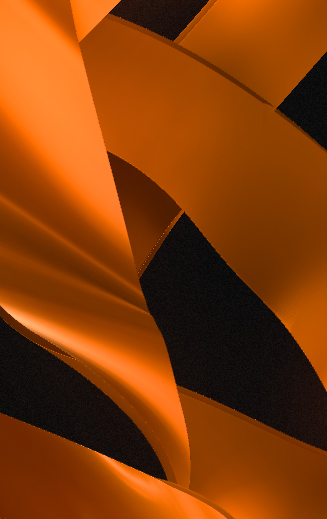
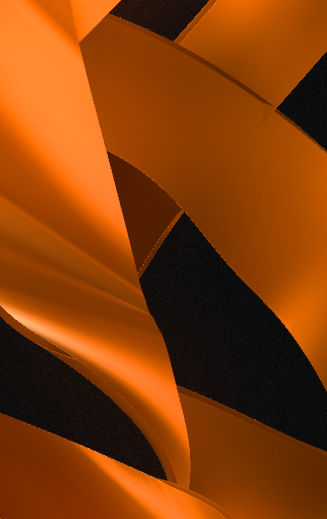
feat(ribbon): soft-box fill light (broad satin gradients, mockup-like contrast)

diff --git a/lib/ribbon/siteSettings.ts b/lib/ribbon/siteSettings.ts
@@ -11,7 +11,7 @@ import type { DeepPartial, RibbonSettings } from "./settings";
  * map / contact catcher are never motion-gated by a threshold (a frozen pose renders them once
  * and keeps them; a moving ribbon renders them every frame). Idle motion comes back in a later stage.
  */
-// 2026-10-09: metallic orange + baked env AO (sweep docs/ribbon/turns/ao4, variant u4); key raised to el 40 / az -50 to remove the tail glare (docs/ribbon/turns/glare, h6); rimNormalMix 0.85 turns the dark edge line into a bright rim (docs/ribbon/turns/rim); golden highlights: clearcoat 0, base #ff7a0a, specular tint #ffd060, key 17 (docs/ribbon/turns/gold2, z6); aoSpec 4 deepens inner faces (docs/ribbon/turns/ao5, w2)
+// 2026-10-09: metallic orange + baked env AO (sweep docs/ribbon/turns/ao4, variant u4); key raised to el 40 / az -50 to remove the tail glare (docs/ribbon/turns/glare, h6); rimNormalMix 0.85 turns the dark edge line into a bright rim (docs/ribbon/turns/rim); golden highlights: clearcoat 0, base #ff7a0a, specular tint #ffd060, key 17 (docs/ribbon/turns/gold2, z6); aoSpec 4 deepens inner faces (docs/ribbon/turns/ao5, w2); fill = large soft box from upper-front-left (docs/ribbon/turns/soft, f1)
 export const SITE_SETTINGS: DeepPartial<RibbonSettings> = {
   // the AK desktop pose was fitted to the mockup with this fov (scripts/fit)
   camera: { fov: 26.4 },
@@ -33,7 +33,7 @@ export const SITE_SETTINGS: DeepPartial<RibbonSettings> = {
     intensity: 1.0,
     autoRotate: false,
     key: { intensity: 17, azimuth: -50, elevation: 40, width: 5, softness: 0.7 },
-    fill: { intensity: 2.0 },
+    fill: { azimuth: -20, elevation: 50, width: 20, length: 40, softness: 1, roll: 0, intensity: 3 },
     top: { intensity: 0.45 },
     bounce: { intensity: 0.12 },
   },
